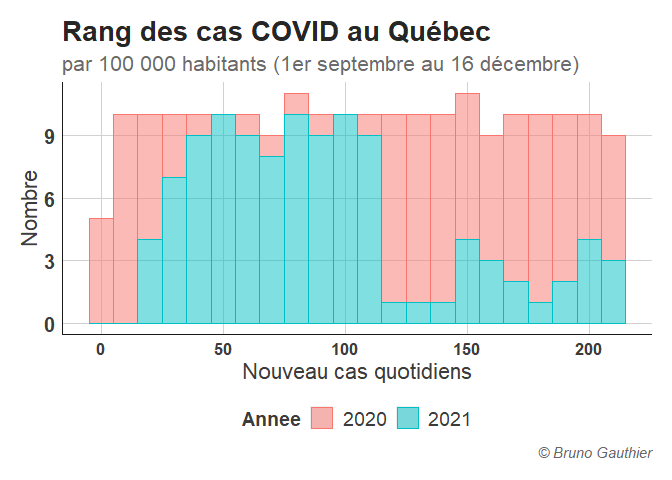
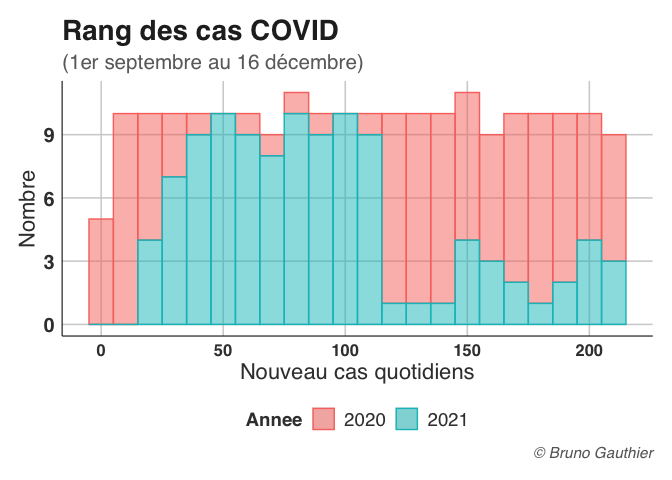
corrections donnees

diff --git a/_posts/2021-12-19-noel-pandemie.md b/_posts/2021-12-19-noel-pandemie.md
@@ -41,7 +41,7 @@ Les dates utilisées pour bâtir le graphique sont les suivantes :
     ##   2020-09-01 2021-09-01
     ##   2021-03-20 2021-12-16
 
-Étant donné que la période 2021 est plus courte que celle 2020, nous avons ces
+Étant donné que la période 2021 est plus courte que celle 2020, nous avons ce nombre de
 données disponibles pour bâtir notre graphique :
     
     ## Cas.2020 Cas.2021 
@@ -94,16 +94,17 @@ COVID_stats$Cas_Rang <- rank(COVID_stats$Cas)
 
 headTail(COVID_stats)
 ```
-    ##         Date Annee   Cas Cas_Rang
-    ## 1 2021-09-01  2020  1.35        2
-    ## 2 2021-09-01  2021  6.49       54
-    ## 3 2021-09-02  2020  1.33        1
-    ## 4 2021-09-02  2021  6.65       64
-    ## 5       <NA>  <NA>   ...      ...
-    ## 6 2021-12-15  2020 20.87      211
-    ## 7 2021-12-15  2021 22.16      213
-    ## 8 2021-12-16  2020 21.15      212
-    ## 9 2021-12-16  2021 23.71      214
+
+    ##         Date Annee     Cas Cas_Rang
+    ## 1 2021-09-01  2020  115.77        2
+    ## 2 2021-09-01  2021  556.57       54
+    ## 3 2021-09-02  2020  114.06        1
+    ## 4 2021-09-02  2021  570.29       64
+    ## 5       <NA>  <NA>     ...      ...
+    ## 6 2021-12-15  2020 1789.77      211
+    ## 7 2021-12-15  2021 1900.39      213
+    ## 8 2021-12-16  2020 1813.78      212
+    ## 9 2021-12-16  2021 2033.32      214
 
 Suite à la transformation, la distribution des cas quotidiens devient : :
 ![](/img/posts/Noel-pandemie/unnamed-chunk-10-1.png)<!-- -->
@@ -158,12 +159,12 @@ Nous constatons que P &lt; 0.001 et nous pouvons donc rejeter l'hypothèse nulle
 
 ## Calcul des moyennes de cas 2020 vs 2021
 
-Nous pouvons donc calculer les moyennes et leurs intervalles de
+Nous pouvons donc calculer les moyennes de cas quotidiens au Québec et leurs intervalles de
 confiance à 95%.
 
-    ##   Annee Cas.upper  Cas.mean Cas.lower
-    ##    2020 12.079800 11.065421 10.051041
-    ##    2021  9.480476  8.735514  7.990552
+    ##   Annee Cas.upper Cas.mean Cas.lower
+    ## 1  2020 1035.9369 948.9460  861.9551
+    ## 2  2021  813.0246 749.1384  685.2521
 
 # Conclusion
 
@@ -171,7 +172,7 @@ Nous avons pu confirmer que la différence de moyenne de cas déclarés de
 COVID au Québec entre l’automne 2020 et l’automne 2021 est
 statistiquement significative.
 
-La Santé Publique a déclaré 8.7 cas par jour en 2021 plutôt que 11 en 2020. Nous pouvons sûrement y voir l’effet de l’immunité de la population causée par la vaccination.
+La Santé Publique a déclaré 749 cas quotidiens en 2021 plutôt que 949 en 2020. Nous pouvons sûrement y voir l’effet de l’immunité de la population causée par la vaccination.
 
 Par contre, nous avons pu voir avec le graphique des données dans le
 temps que la tendance actuelle au Québec s'accélère rapidement. Le nouveau
